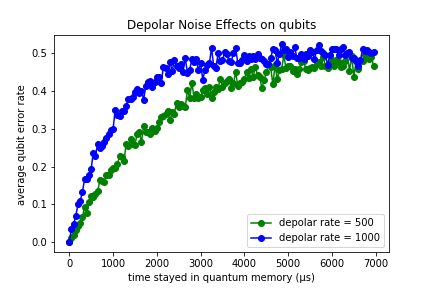
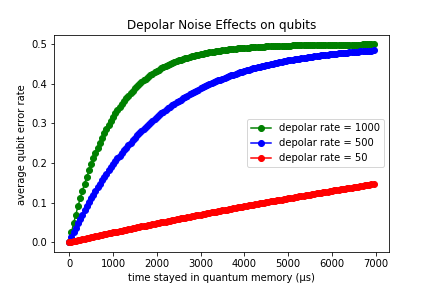
update quantum memory

diff --git a/Others/QMemory/QMemoryNoiceSim.py b/Others/QMemory/QMemoryNoiceSim.py
@@ -1,23 +1,22 @@
-#!/usr/bin/env python
-# coding: utf-8
 
-# In[7]:
 
 
 import numpy as np
 import netsquid as ns
 from netsquid.nodes.node import Node
-from netsquid.components import QuantumMemory, DepolarNoiseModel #,DephaseNoiseModel
+from netsquid.components import QuantumMemory, DepolarNoiseModel
 from netsquid.qubits import create_qubits
+from netsquid.qubits.qformalism import *
 
 
-# In[94]:
+
 
 
 class QMemoryTest():
     
     
     def init(self,num_bits=8,depolar_rate=0,timeIND=False,waitTime=5):
+        set_qstate_formalism(QFormalism.DM)
         self.node_A = Node("A",ID=0)
         #apply quantum memory and Depolar Noise Model
         self.A_memory = QuantumMemory("QMemory_A", num_bits,ID=0, 
@@ -29,98 +28,96 @@ class QMemoryTest():
         self.qList=None
         return(self.start())
     
+
     
-    def CompareQubits(self,qList):
-        tmp=create_qubits(1,system_name="Q") #use one qubit to compare
-        err_count=0
-        for q in qList:
-            if np.array_equal(q.qstate.dm,tmp[0].qstate.dm):
-                pass
-            else:
-                err_count+=1
-        return err_count
+    def CompareQubits(self,qubit):
+        #print(float(qubit.qstate.dm[1][1]))
+        return float(qubit.qstate.dm[1][1])
 
         
     def start(self):
+        
         self.qList = create_qubits(self.num_bits,system_name="Q") 
         
         self.A_memory.put(self.qList)
         
         # put
         ns.sim_run(duration=self.waitTime,magnitude=ns.MICROSECOND)  
-        # pop
-        temp=[]
-        for i in range(self.num_bits):
-            temp.append(i)
-        self.qListB=self.A_memory.pop(temp)
         
-        err_count=self.CompareQubits(self.qList)
+        # pop            
+        self.qList=self.A_memory.pop(list(np.arange(self.num_bits)))
+        
+        err_rate=self.CompareQubits(self.qList[0])
         
         if self.num_bits!=0:
-            return err_count/self.num_bits
+            return err_rate   
         else:
             return 0
 
 
-# In[95]:
-
-
-def run_QMemoryTest(run_times=1,num_bits=8,depolar_rate=0,
-        timeIND=False,waitTime=0):
-    MyQTList=[]
-    sum=0
-    for i in range(run_times):
-        ns.sim_reset()
-        MyQTList.append(QMemoryTest())
-        n=MyQTList[i].init(num_bits=num_bits,depolar_rate=depolar_rate
-            ,timeIND=timeIND,waitTime=waitTime)#
-        ns.sim_run()
-        sum+=n
-    return sum/run_times
-    
-    
-
-
-# In[102]:
 
 
 import matplotlib.pyplot as plt
 
 def QuantumMem_plot():
-    y_axis=[]
     x_axis=[]
-    run_times=30
-    num_bits=40
-    depolar_rate=500
+    y_axis=[]
+    run_times=1
+    num_bits=1
     timeIND=False
     waitTime=0
+    depolar_rate=1000
+    
     
     min_time=0
     max_time=7000
+    
+    ns.sim_reset()
+    
     
     #first line
     for i in range(min_time,max_time,50):
         
         x_axis.append(i)
-        y_axis.append(run_QMemoryTest(run_times=run_times
-            ,num_bits=num_bits,depolar_rate=depolar_rate
-            ,timeIND=timeIND,waitTime=i))
+        y_axis.append(QMemoryTest().init(num_bits=num_bits
+            ,depolar_rate=depolar_rate,timeIND=timeIND,waitTime=i))
+     
         
-    plt.plot(x_axis, y_axis, 'go-',label='depolar rate = 500')
+    plt.plot(x_axis, y_axis, 'go-',label='depolar rate = 1000')
+    
+    
     
     #second line
     x_axis.clear()
     y_axis.clear()
-    depolar_rate=1000
+    depolar_rate=500
     
     for i in range(min_time,max_time,50):
         
         x_axis.append(i)
-        y_axis.append(run_QMemoryTest(run_times=run_times
-            ,num_bits=num_bits,depolar_rate=depolar_rate
-            ,timeIND=timeIND,waitTime=i))
+        y_axis.append(QMemoryTest().init(num_bits=num_bits
+            ,depolar_rate=depolar_rate,timeIND=timeIND,waitTime=i))
         
-    plt.plot(x_axis, y_axis, 'bo-',label='depolar rate = 1000')
+    plt.plot(x_axis, y_axis, 'bo-',label='depolar rate = 500')
+    
+    
+    
+    # 3rd line
+    x_axis.clear()
+    y_axis.clear()
+    depolar_rate=50
+    
+    for i in range(min_time,max_time,50):
+        
+        x_axis.append(i)
+        y_axis.append(QMemoryTest().init(num_bits=num_bits
+            ,depolar_rate=depolar_rate,timeIND=timeIND,waitTime=i))
+        
+    ns.sim_run()
+    
+    
+    plt.plot(x_axis, y_axis, 'ro-',label='depolar rate = 50')
+    
     
     
     plt.title('Depolar Noise Effects on qubits')
@@ -128,10 +125,15 @@ def QuantumMem_plot():
     plt.xlabel('time stayed in quantum memory (μs)')
 
     plt.legend()
-    plt.savefig('QMem4.png')
+    plt.savefig('QMem7.png')
     plt.show()
 
 
 
 QuantumMem_plot()
+
+
+
+
+
 
